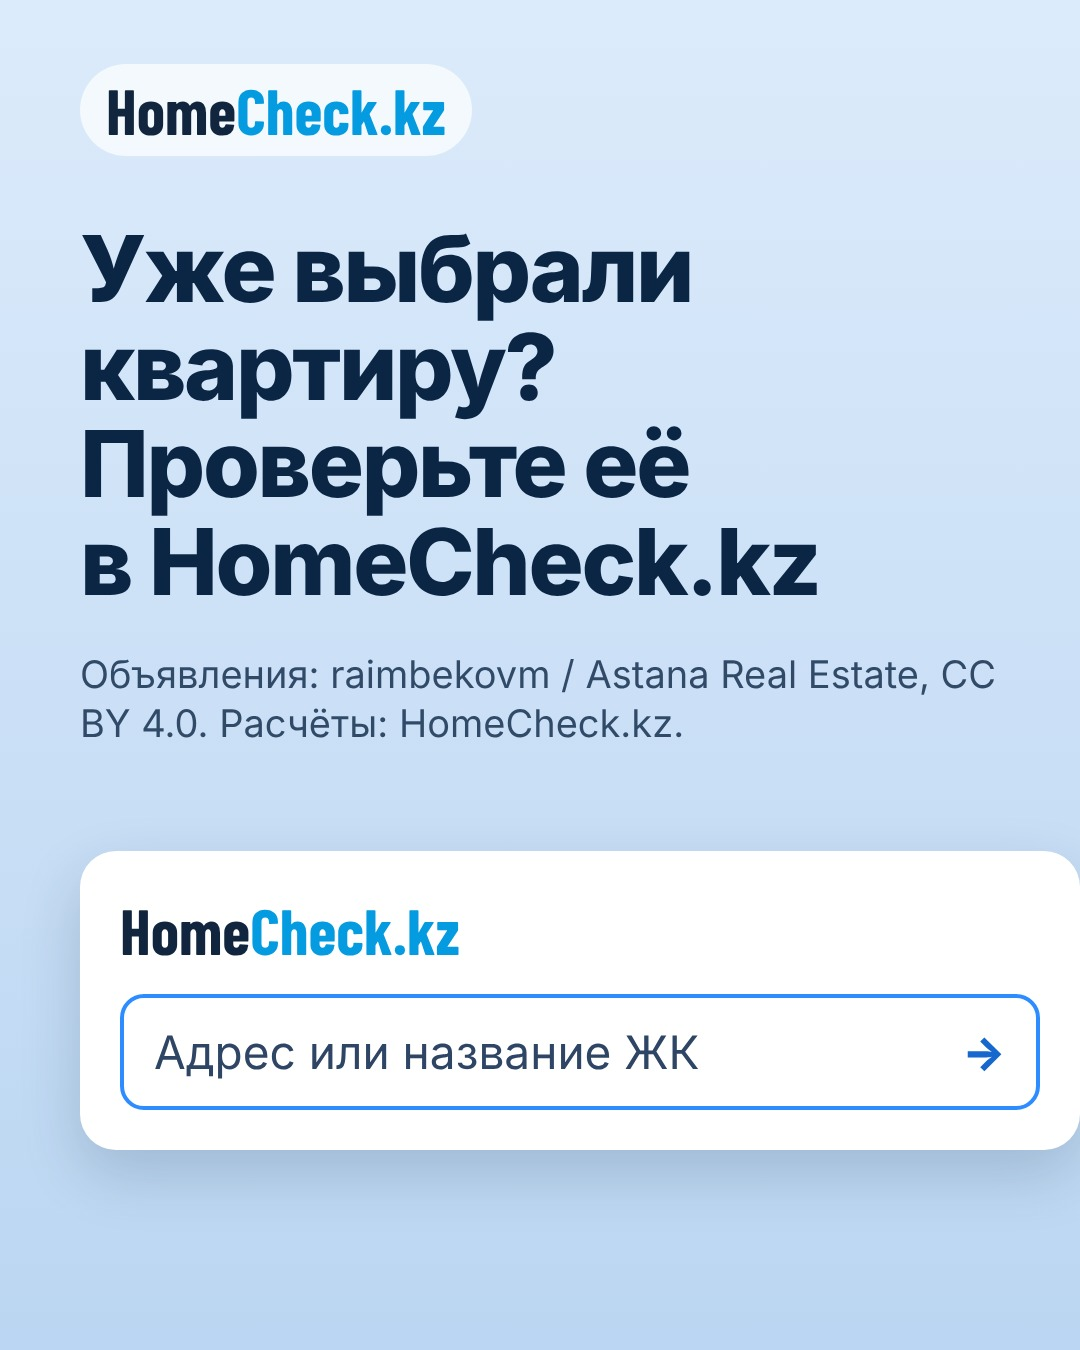
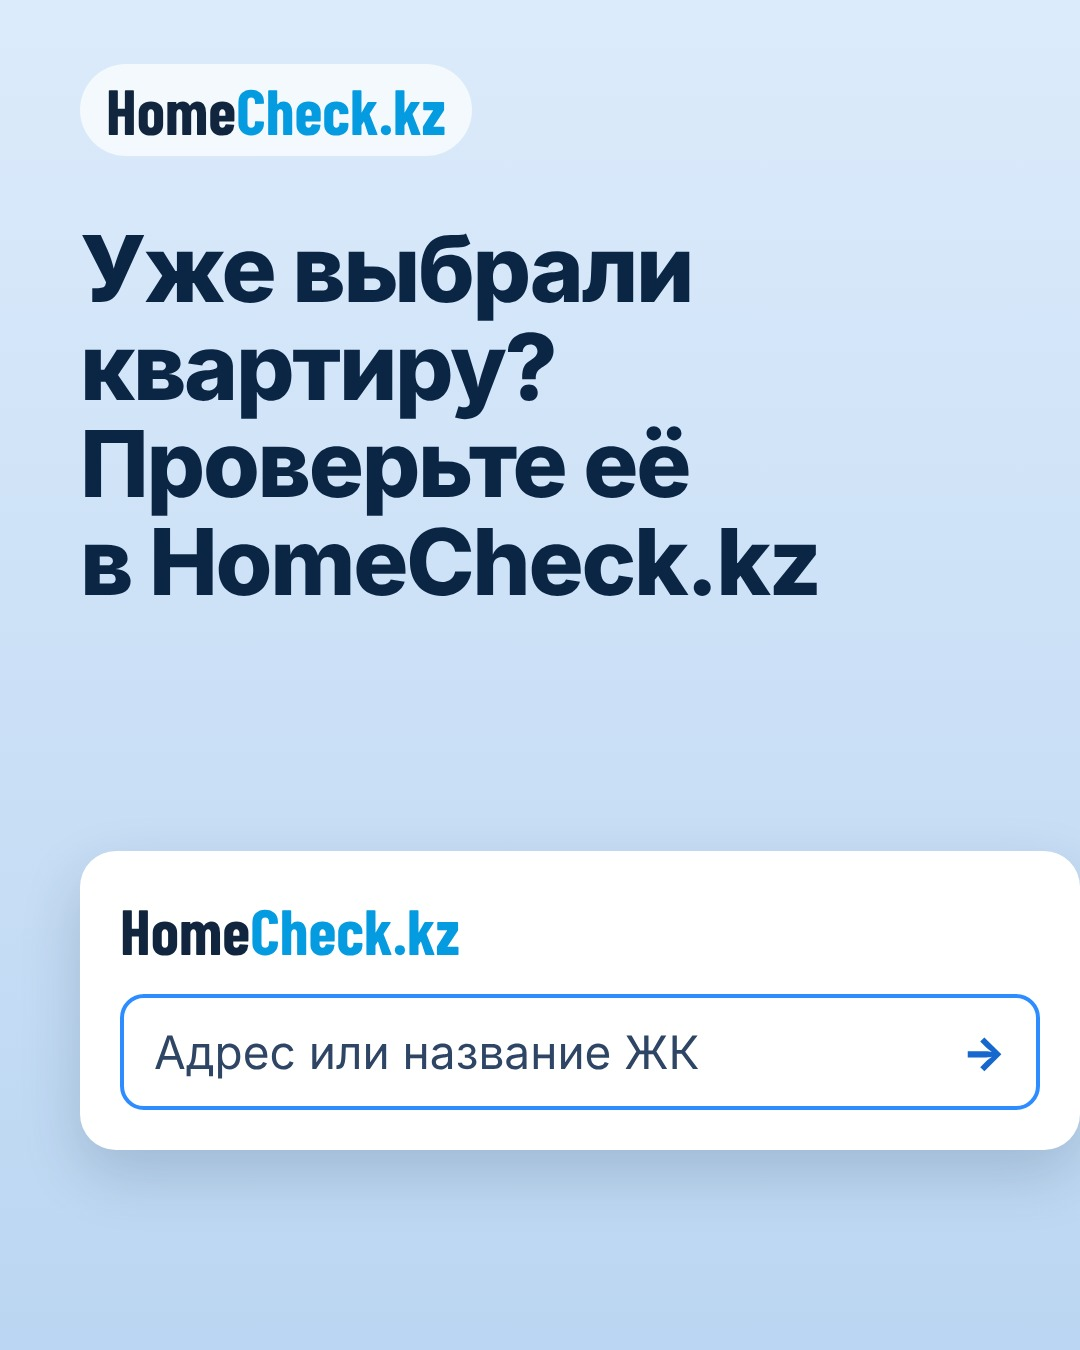
Analytics post: remove source line from last slide
Claude-Session: https://claude.ai/code/session_01YPTRhbcfXRBnSeVtmn8ipe

Changed region(s): [[0.0611, 0.4667, 0.8556, 0.56], [0.8861, 0.4667, 0.9167, 0.5289]]

diff --git a/posts/analitika-obyavleniya-sdelki/build.py b/posts/analitika-obyavleniya-sdelki/build.py
@@ -101,7 +101,7 @@ SLIDES = [
     page('blue', '<div class="box" style="top:250px"><h2 class="t">В пересчёте на квартиру — несколько миллионов&nbsp;₸</h2>'
          '<p class="lb" style="opacity:.9">На разницу могут влиять переговоры, комплектация и условия расчётов.</p></div>' + money()),
     page('light', '<div class="box" style="top:220px"><h2 class="t">Уже выбрали квартиру? Проверьте её в&nbsp;HomeCheck.kz</h2>'
-         '<p class="lb">Объявления: raimbekovm / Astana Real Estate, CC BY 4.0. Расчёты: HomeCheck.kz.</p></div>' + search()),
+         '</div>' + search()),
 ]
 
 if __name__ == '__main__':
